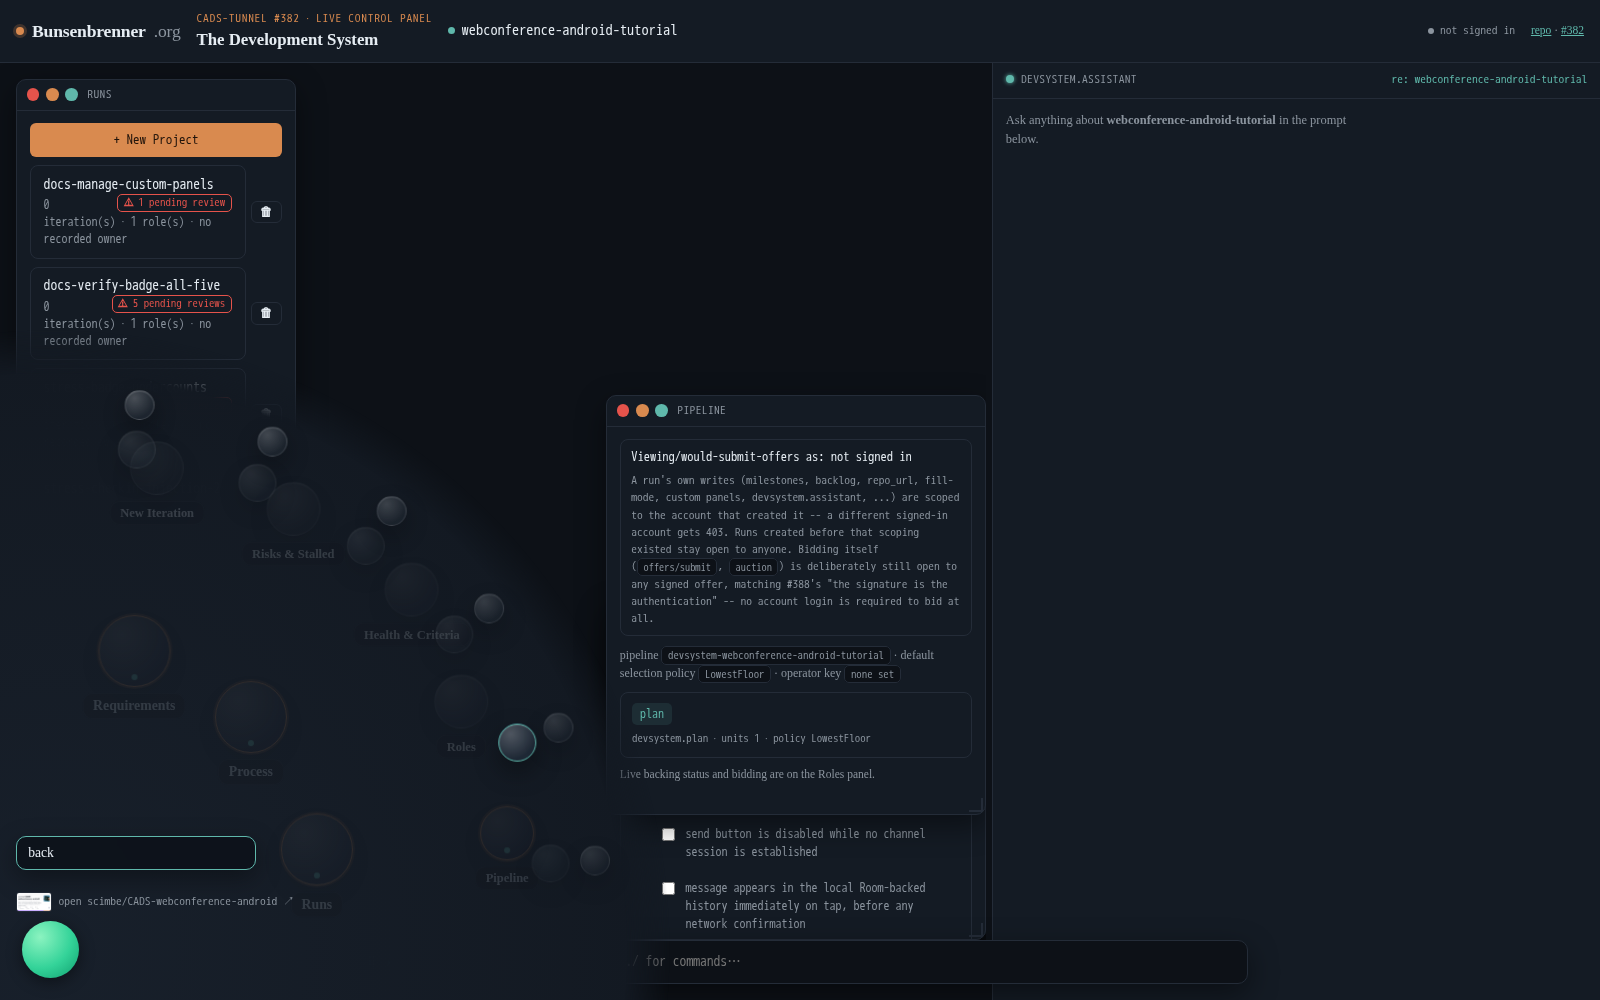
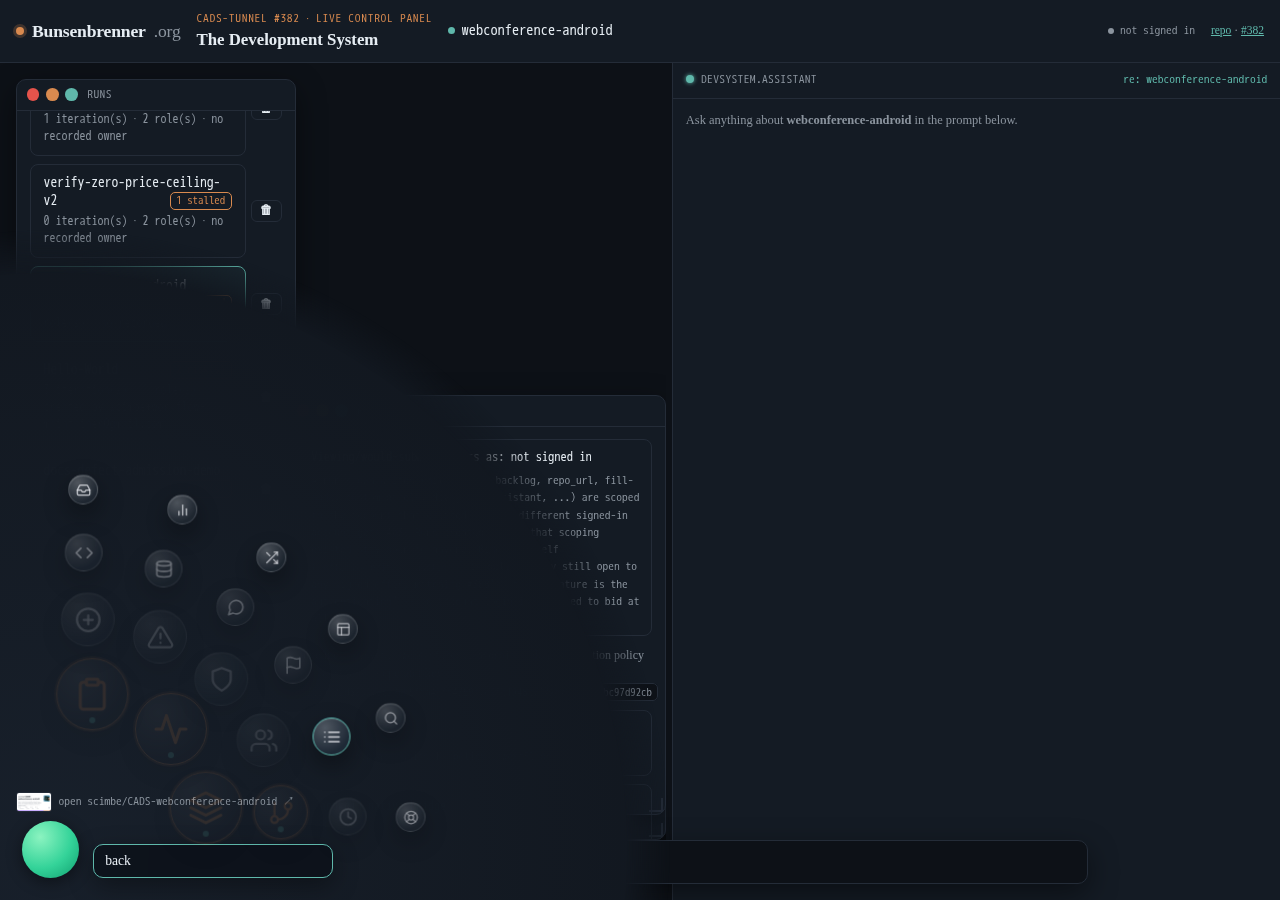
how-to: refresh the panel-launcher guide for the label-free redesign
CADS-devsystem@2acac30 dropped the launcher's permanent text labels
entirely (icon + real hover/focus tooltip on every tier now, not just
the outer ones), rebalanced ring spacing, fixed a real click-outside-to
-close bug, and moved the filter box beside the dot. This page still
described the old two-tier labeled/icon-only design and showed
screenshots of it.

Recaptured all four screenshots against the actual redeployed flagship
run (01-closed, 02-open, a new 02b-hover-tooltip showing the real
tooltip rendering, 04-filter), rewrote the "panels are not all the same
size" and "opening it" sections, and added a real "closing it without
the keyboard" section for the click-outside fix.

Hermetic Jekyll build confirmed clean before push.

diff --git a/_how-to/navigate-with-the-panel-launcher.md b/_how-to/navigate-with-the-panel-launcher.md
@@ -19,17 +19,30 @@ bar itself now shows the current project's real name instead.
 
 Click the dot (or press Tab to it and hit Enter/Space, it's a real `<button>`, not a decorative
 element). It unfolds into a real, animated circle segment confined to the corner -- not a
-full-screen overlay -- with every real panel shown as a "bubble" inside it.
+full-screen overlay -- with every real panel shown as an icon "bubble" inside it.
 
 <figure>
-<img src="{{ '/assets/img/howto-panel-launcher/02-open.png' | relative_url }}" alt="The launcher open, showing panel bubbles of different sizes fanning out from the green dot: large labeled circles for Process, Runs, Pipeline, and Requirements, smaller unlabeled circles for the rest, and a real red badge showing '1' on the Pipeline bubble" >
+<img src="{{ '/assets/img/howto-panel-launcher/02-open.png' | relative_url }}" alt="The launcher open, showing panel icon bubbles of different sizes fanning out from the green dot in four rings, hugging the screen's left and bottom edges, with a real red badge on the Pipeline bubble" >
 <figcaption>Pipeline's real red badge here is the same live pending-proposal count the old chip bar's badge used to show -- nothing about what a badge means changed, only how it's presented.</figcaption>
 </figure>
 
+Every bubble carries a small pictogram for its panel and, on hover or focus, a real floating
+tooltip with its full name -- no panel name is ever permanently written on screen or truncated:
+
+<figure>
+<img src="{{ '/assets/img/howto-panel-launcher/02b-hover-tooltip.png' | relative_url }}" alt="The launcher open with the mouse hovering the warning-triangle icon, a floating tooltip reading 'Risks & Stalled' shown above it" >
+<figcaption>Hovering (or Tab-focusing) any bubble shows its real name as a floating label -- click it, and it opens (or brings to the front, if already open) the panel behind it.</figcaption>
+</figure>
+
+An earlier version of this launcher gave the most important panels a permanent, always-visible text
+label instead of an icon+tooltip -- reverted after live feedback: that permanent label needed real
+horizontal room, which was the actual reason the bubble rings sat so far apart from each other.
+Icon+tooltip everywhere let every ring sit much closer to the dot instead.
+
 ## Panels are not all the same size, on purpose
 
-Every panel is shown, but not with equal weight. Size encodes real, current relevance, not a fixed
-ranking:
+Every panel is shown, but not with equal weight. Size (and how close to the dot a bubble sits)
+encodes real, current relevance, not a fixed ranking:
 
 - A panel with a real pending decision (a proposal waiting on your approval, same signal as the old
   badge) is weighted up.
@@ -37,13 +50,7 @@ ranking:
   default on a first-time visit) are weighted up.
 - A panel you already have open right now is weighted up (it also gets a small teal dot under its
   icon, a second, independent signal from size alone).
-- Everything else is a plain, smaller icon.
-
-The most important panels get a real, permanent, never-abbreviated text label. The rest are
-icon-only -- hover or focus one to see its real full name in a floating label, the same convention
-macOS' own Dock uses for exactly this reason: full names for everyone would either force the segment
-to cover most of the screen, or force every name to truncate. Neither is on -- click any bubble,
-labeled or not, and it opens (or brings to the front, if already open) the real panel behind it.
+- Everything else is a plain, smaller icon further out.
 
 ## Prefer typing? There's a real filter for that too
 
@@ -51,7 +58,9 @@ Live feedback after shipping the bubble-click version: hunting for one specific 
 worse than just typing a panel name, the way the Process Prompt's own `./show`/`./hide`/`./toggle`
 commands already work. Rather than dropping the visual overview, the launcher now opens with a real
 text field, already focused -- start typing and every non-matching bubble dims out of the way,
-matching bubbles get a teal highlight:
+matching bubbles get a teal highlight. It sits directly beside the dot (bottom edges aligned) rather
+than floating independently above it, per later live feedback that the two read as one control
+cluster better that way:
 
 <figure>
 <img src="{{ '/assets/img/howto-panel-launcher/04-filter.png' | relative_url }}" alt="The launcher open with 'back' typed into its filter field, the Backlog bubble highlighted with a teal border, every other bubble dimmed out" >
@@ -62,6 +71,14 @@ Press **Enter** once exactly one panel matches and it opens immediately, launche
 identical matching rule (panel id or title, substring) the real `./show` command already trusts, not
 a second guess at what counts as a match. If your filter still matches more than one panel, Enter
 does nothing rather than guessing which one you meant -- keep typing (or click) instead.
+
+## Closing it without the keyboard
+
+Clicking anywhere on empty canvas outside the fanned-out bubbles closes the launcher too -- a real
+fix, live operator report 2026-08-07: it silently didn't, before. The launcher's own bubble
+container is a full-viewport layer sitting inside the reveal circle, so a click on the empty space
+between bubbles was landing on that container, not the backdrop the close handler was actually
+listening on. Fixed to treat either as "outside" now.
 
 ## Keyboard
 
